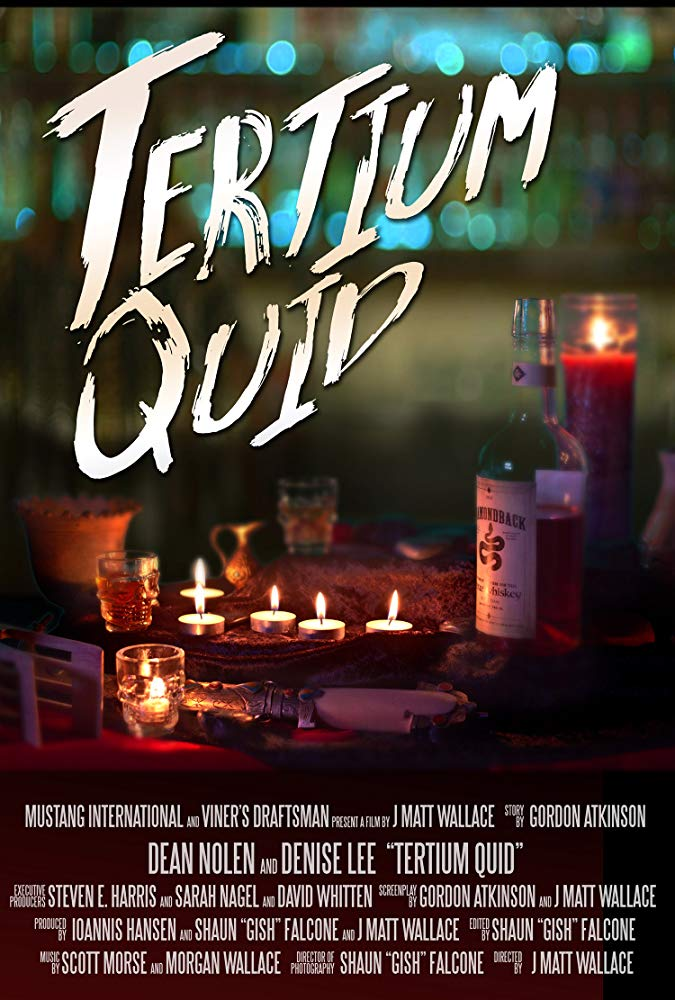
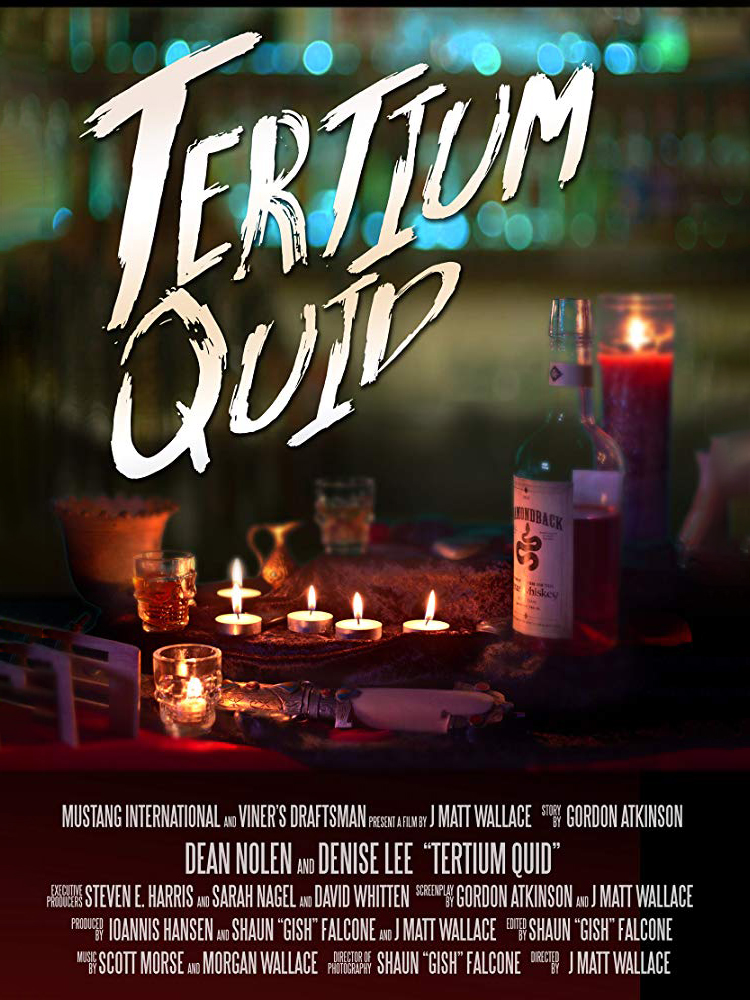
added stuff

diff --git a/rearrangement.html b/rearrangement.html
@@ -28,7 +28,7 @@
 </head>
 <body>
 
-<div class="jumbotron" style="background-color: #121212; background-image: url(/images/tertium_quid.jpg); background-repeat: no-repeat; background-size: 100%; background-position: 0px -120px">
+<div class="jumbotron" style="background-color: #121212; background-image: url(/images/rearrangement.jpg); background-repeat: no-repeat; background-size: 100%; background-position: 0px -100px">
   <div class="container">
     <a href="/"><h1><img src="/images/Logo.png" width="70%" style="max-width: 450px"></h1></a>    
   </div>
@@ -60,23 +60,24 @@
   <div class="row">
     <div class="col-sm-3">
 
-        <a href="#"><img src="/images/Poster_Tertium_Quid.jpg" style="width:100%; padding-bottom: 10px;" alt="Image"/></a>
+        <a href="#"><img src="/images/Poster_Rearrangement.jpg" style="width:100%; padding-bottom: 10px;" alt="Image"/></a>
 <!--         <a href="#"><img src="/images/fat_wreck01.jpg" style="width:100%; padding-bottom: 10px;" alt="Image"></a> -->
 
     </div>
     <div class="col-sm-7">
-<iframe src="https://player.vimeo.com/video/288891783?title=0&byline=0&portrait=0" width="640" height="360" frameborder="0" webkitallowfullscreen mozallowfullscreen allowfullscreen></iframe>
-<h3 style="color: #a56818">Tertium Quid</h3>
-      <h4>2017 Narrative Short &bull; Producers: Ioannis Hansen, Shaun Falcone</h4>
-      <p>In a seedy bar, a mysterious woman holds court before her drunken congregation. Out back, unique and interesting world views are bought and sold on the black market. Into this world falls Gordon, a former minister who has lost his faith, and now hopes to shed his history and identity.</p>
-      <p>His search may lead all parties to the TERTIUM QUID: A mysterious 'third way' said to open itself to our awareness when there seem to be no answers to our questions.</p>
+<h3 style="color: #a56818">Rearrangement (Aναδιοργάνωση)</h3>
+      <h4>2018 Narrative Short &bull; Producer: Ioannis Hansen</h4>
+      <p>Greek language film, shot on location on the island of Cyprus.</p>
+      <p>When Leonidas (Makis Papadimitriou) pursues an home renovation contract, he quickly comes to find that his potential new client is very insistent that everything must be done according to her demands.</p>
     </div>
     
     <div class="col-sm-2">
-      <img src="/images/laurels/worldfest-houston-2018.png" style="max-width: 150px; max-height: 150px; padding-bottom: 15px;display: block; margin-left: auto; margin-right: auto;"/>
-      <img src="/images/laurels/hillcountry-2018.png" style="max-width: 150px; max-height: 150px; padding-bottom: 15px;display: block; margin-left: auto; margin-right: auto;"/>
-      <img src="/images/laurels/orlando-2018.png" style="max-width: 150px; max-height: 150px; padding-bottom: 15px;display: block; margin-left: auto; margin-right: auto;"/>
-      <img src="/images/laurels/sanantonio-2018.png" style="max-width: 150px; max-height: 150px; padding-bottom: 15px;display: block; margin-left: auto; margin-right: auto;"/>
+      <img src="/images/laurels/shorttothepoint-winner.jpg" style="max-width: 150px; max-height: 150px; padding-bottom: 15px;display: block; margin-left: auto; margin-right: auto;"/>
+      <img src="/images/laurels/edmonton2018.jpg" style="max-width: 150px; max-height: 150px; padding-bottom: 15px;display: block; margin-left: auto; margin-right: auto;"/>
+      <img src="/images/laurels/cyprus-2018.png" style="max-width: 150px; max-height: 150px; padding-bottom: 15px;display: block; margin-left: auto; margin-right: auto;"/>
+      <img src="/images/laurels/tisff-2018.jpg" style="max-width: 150px; max-height: 150px; padding-bottom: 15px;display: block; margin-left: auto; margin-right: auto;"/>
+      <img src="/images/laurels/sanfran2018.jpg" style="max-width: 150px; max-height: 150px; padding-bottom: 15px;display: block; margin-left: auto; margin-right: auto;"/>
+      <img src="/images/laurels/poff-2018.png" style="max-width: 150px; max-height: 150px; padding-bottom: 15px;display: block; margin-left: auto; margin-right: auto;"/>
     </div>
 </div><br><br>
 

diff --git a/index.html b/index.html
@@ -15,7 +15,7 @@
     }
     
     /* Remove the jumbotron's default bottom margin */ 
-     .jumbotron {
+    .jumbotron {
       margin-bottom: 0;
     }
    
@@ -25,13 +25,17 @@
       padding: 25px;
     }
 
+    .panel {
+      background-color: #daad27;
+    }
+
   </style>
 </head>
 <body>
 
 <div class="jumbotron" style="background-color: #121212">
   <div class="container text-center">
-    <h1><img src="/images/Logo.png" width="70%"></h1>      
+    <a href="/"><h1><img src="/images/Logo.png" width="70%"></h1></a>    
   </div>
 </div>
 
@@ -46,7 +50,7 @@
     </div>
     <div class="collapse navbar-collapse" id="myNavbar">
       <ul class="nav navbar-nav">
-        <li class="active"><a href="#">Films</a></li>
+        <li class="active"><a href="/">Films</a></li>
         <li><a href="#">About</a></li>
         <li><a href="#">Contact</a></li>
       </ul>
@@ -58,17 +62,17 @@
   <div class="row">
     <div class="col-sm-4">
       <div class="panel">
-        <div class="panel-body"><a href="#"><img src="/images/Poster_A_Fat_Wreck.jpg" style="width:100%" alt="Image"></a></div>
+        <div class="panel-body"><a href="/a-fat-wreck.html"><img src="/images/Poster_A_Fat_Wreck.jpg" style="width:100%" alt="Image"></a></div>
       </div>
     </div>
     <div class="col-sm-4"> 
       <div class="panel">
-        <div class="panel-body"><a href="#"><img src="/images/Poster_Tertium_Quid.jpg" height="1000" class="img-responsive" style="width:100%" alt="Image"></a></div>
+        <div class="panel-body"><a href="/tertium-quid.html"><img src="/images/Poster_Tertium_Quid.jpg" style="width:100%" alt="Image"></a></div>
       </div>
     </div>
     <div class="col-sm-4"> 
       <div class="panel">
-        <div class="panel-body"><a href="#"><img src="/images/Poster_Rearrangement.jpg" height="1000" class="img-responsive" style="width:100%" alt="Image"></a></div>
+        <div class="panel-body"><a href="/rearrangement.html"><img src="/images/Poster_Rearrangement.jpg" style="width:100%" alt="Image"></a></div>
       </div>
     </div>
   </div>

diff --git a/a-fat-wreck.html b/a-fat-wreck.html
@@ -30,7 +30,7 @@
 
 <div class="jumbotron" style="background-color: #121212; background-image: url(/images/fat_wreck01.jpg); background-repeat: no-repeat; background-size: 100%; background-position: 200px -250px">
   <div class="container">
-    <h1><img src="/images/Logo.png" width="70%" style="max-width: 450px"></h1>      
+    <a href="/"><h1><img src="/images/Logo.png" width="70%" style="max-width: 450px"></h1></a>     
   </div>
 </div>
 
@@ -45,7 +45,7 @@
     </div>
     <div class="collapse navbar-collapse" id="myNavbar">
       <ul class="nav navbar-nav">
-        <li class="active"><a href="#">Films</a></li>
+        <li class="active"><a href="/">Films</a></li>
         <li><a href="#">About</a></li>
         <li><a href="#">Contact</a></li>
       </ul>
